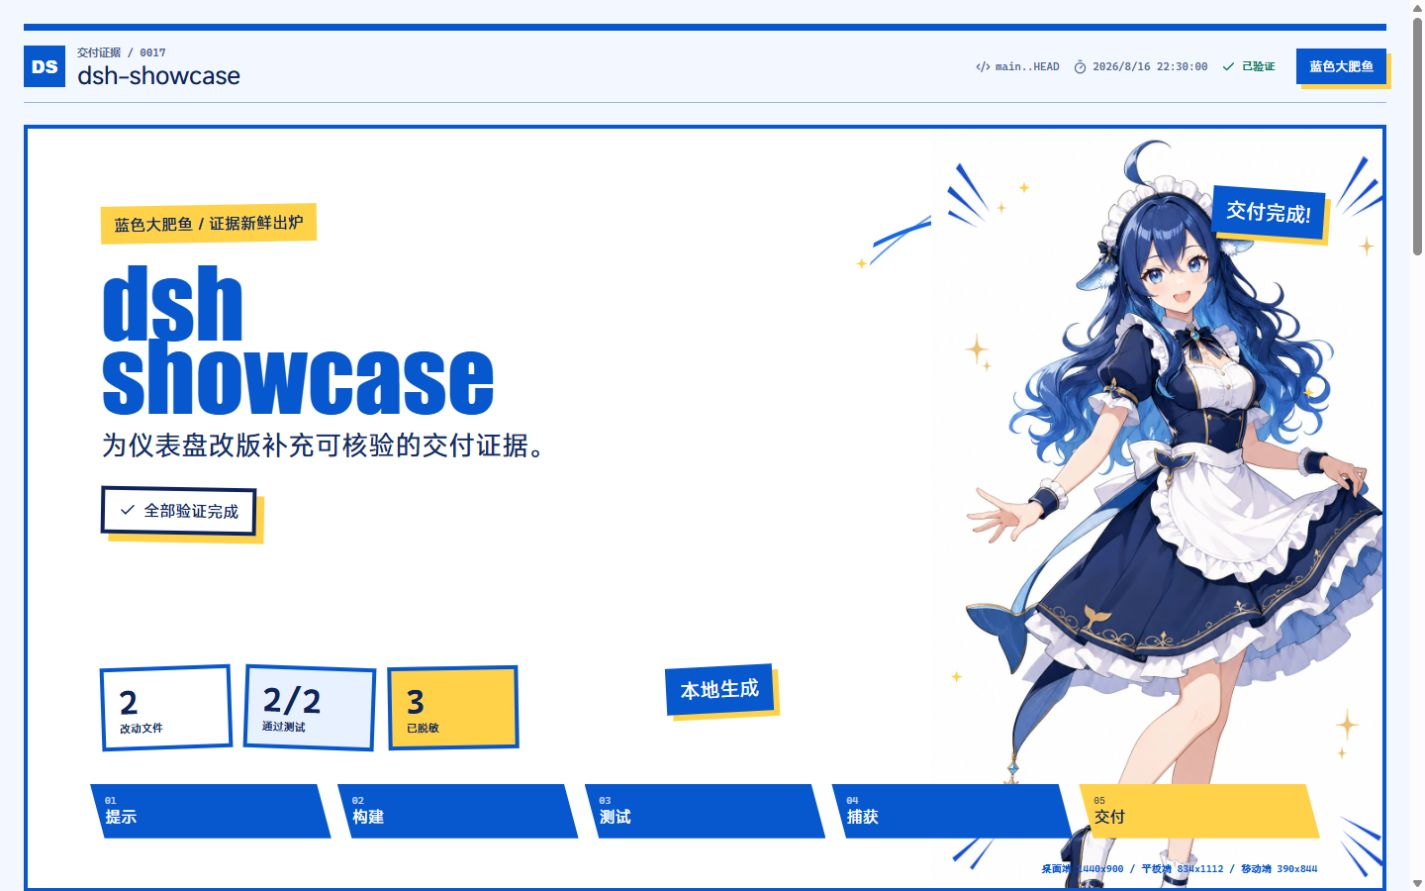
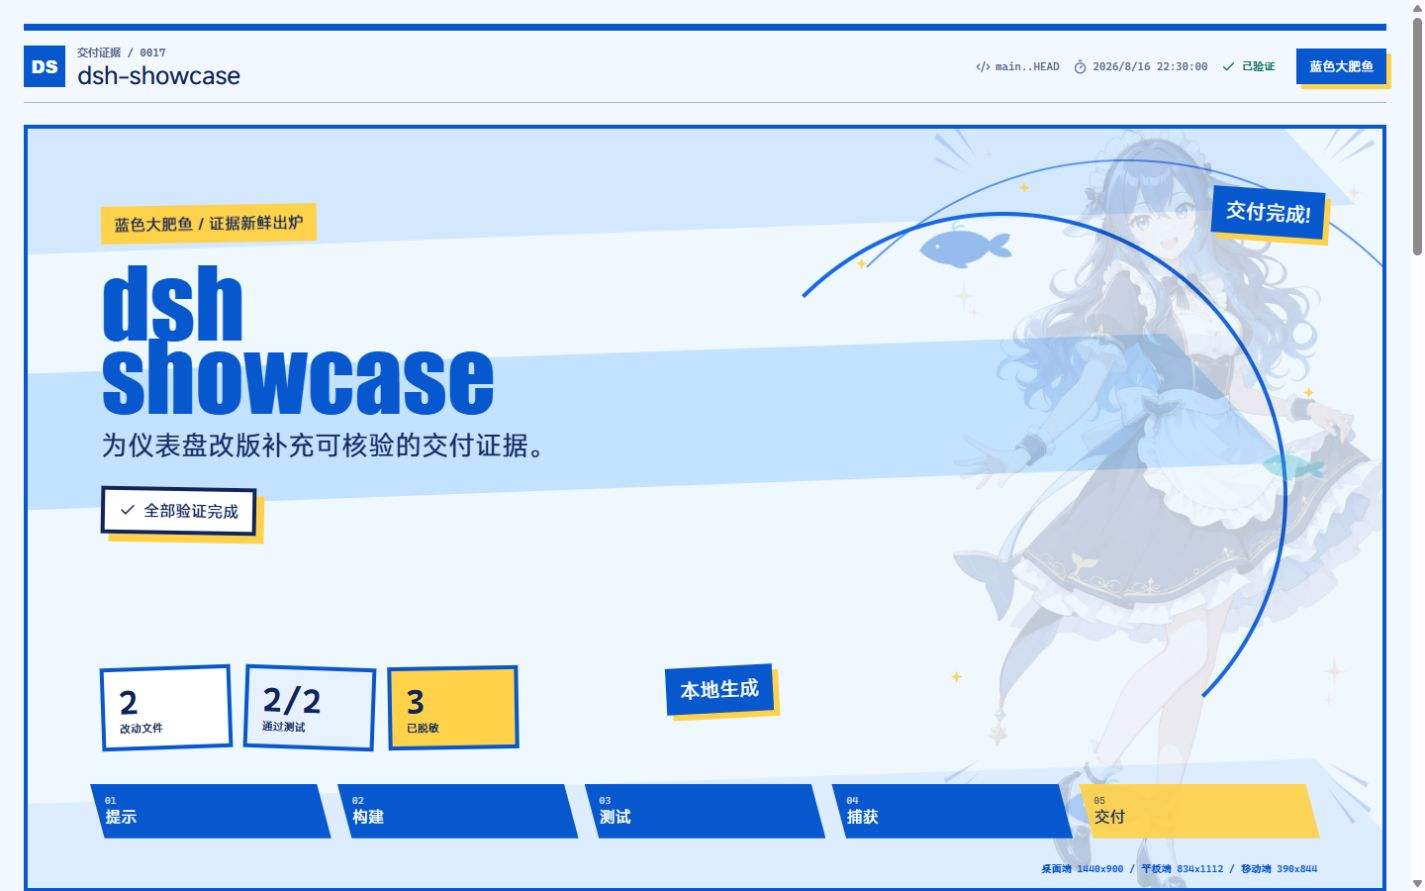
fix: preserve whale portrait in responsive evidence

diff --git a/src/styles.css b/src/styles.css
@@ -431,7 +431,7 @@ button:focus-visible, input:focus-visible, summary:focus-visible { outline: 3px 
   .field-poster__metrics { right: 5.2%; bottom: 18%; width: 45%; }
   .field-poster__rail span, .fish-poster__rail span { padding-left: 9px; padding-right: 8px; }
   .fish-poster { min-height: 720px; }
-  .fish-poster__portrait { top: 30%; right: -7%; width: 68%; height: 76%; opacity: .16; }
+  .fish-poster__portrait { top: 34%; right: -7%; width: 68%; height: 76%; opacity: .16; }
   .fish-poster__copy { top: 7%; width: 88%; }
   .fish-poster h2 { font-size: 65px; }
   .fish-poster__goal { max-width: 520px; font-size: 20px; }
@@ -473,7 +473,7 @@ button:focus-visible, input:focus-visible, summary:focus-visible { outline: 3px 
   .fish-poster h2 { margin: 17px 0 12px; font-size: 57px; }
   .fish-poster__goal { font-size: 17px; }
   .fish-poster__verified { margin-top: 15px; border-width: 3px; box-shadow: 6px 6px 0 #ffd24a; }
-  .fish-poster__portrait { top: 34%; right: -22%; width: 104%; height: 70%; opacity: .13; }
+  .fish-poster__portrait { top: 40%; right: -22%; width: 104%; height: 70%; opacity: .13; }
   .fish-whale--one { top: 45%; right: 14%; width: 20%; }
   .fish-whale--two { top: 58%; right: 2%; width: 13%; }
   .fish-whale--three { right: 25%; bottom: 8%; width: 24%; }

diff --git a/tests/motion.test.ts b/tests/motion.test.ts
@@ -29,6 +29,13 @@ describe("persistent theme motion", () => {
     expect(app).not.toContain('className="theme-switch"');
   });
 
+  it("keeps the decorative portrait safely below the tablet and mobile poster edge", async () => {
+    const css = await readFile(stylesUrl, "utf8");
+
+    expect(css).toContain(".fish-poster__portrait { top: 34%; right: -7%; width: 68%; height: 76%; opacity: .16; }");
+    expect(css).toContain(".fish-poster__portrait { top: 40%; right: -22%; width: 104%; height: 70%; opacity: .13; }");
+  });
+
   it("renders report screenshot paths instead of placeholder interface blocks", async () => {
     const [app, css] = await Promise.all([readFile(appUrl, "utf8"), readFile(stylesUrl, "utf8")]);
 
